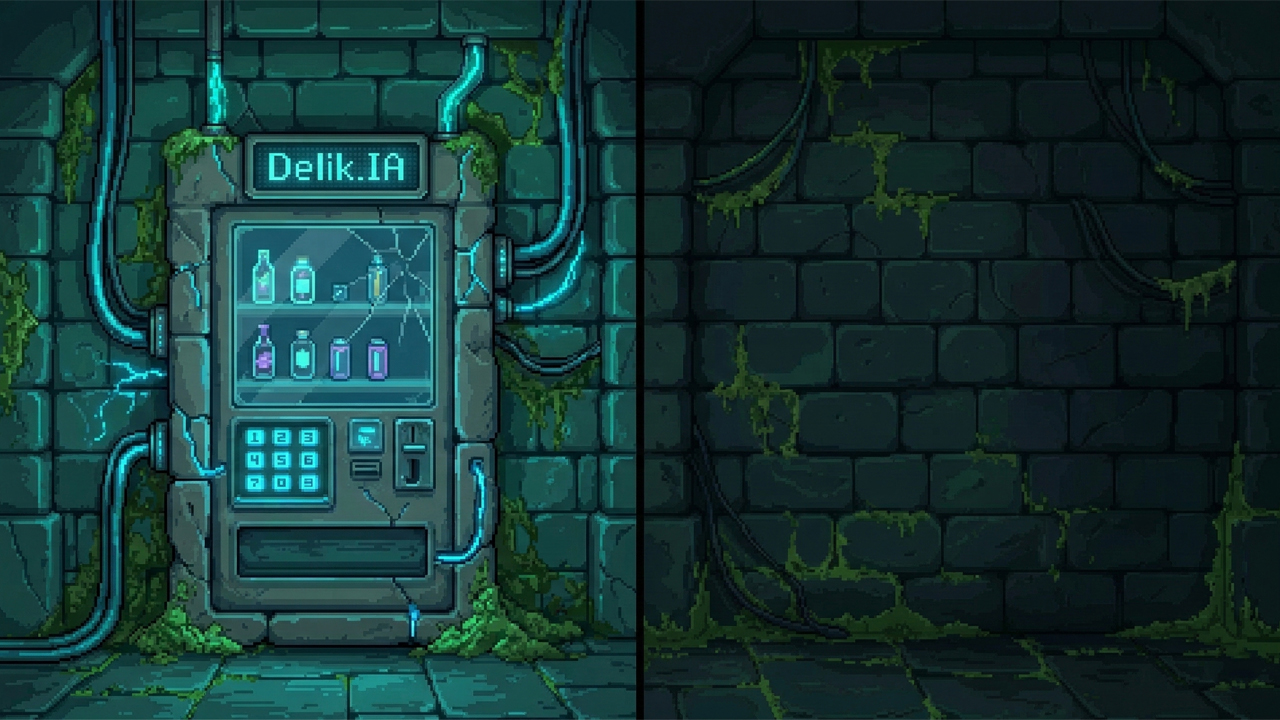
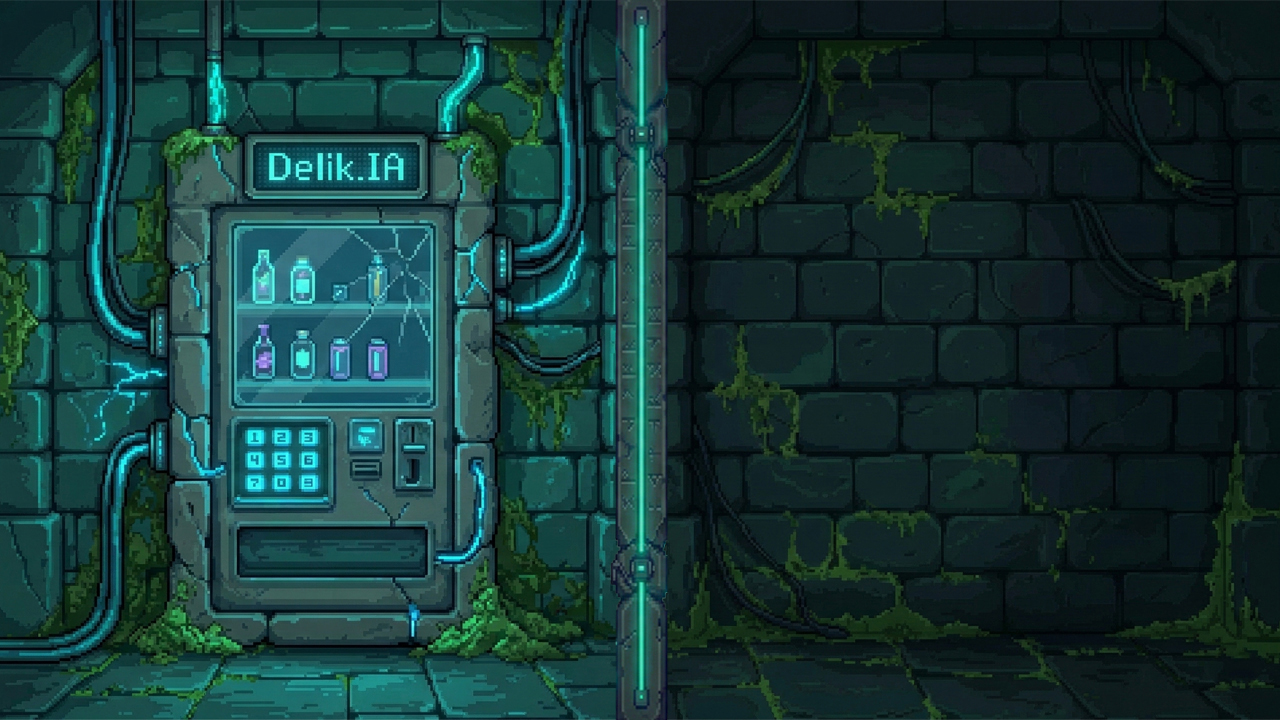
Completo PanelTienda

Changed region(s): [[0.4688, 0.0, 0.5312, 1.0]]

diff --git a/eldap/src/main/java/com/videojuego/vista/PanelTienda.java b/eldap/src/main/java/com/videojuego/vista/PanelTienda.java
@@ -14,10 +14,15 @@ public class PanelTienda extends JPanel {
     private JTextArea areaDescripcion;
     private JButton botonComprar;
     private JButton botonVolver;
-    private JButton botonesItems[] = new JButton[10];
+    private JButton botonesItems[] = new JButton[6];
+    private int itemSeleccionado = -1; // Como el array de items es de 0 a 5, lo inicializo a -1
+    private ImageIcon[] iconosNormales = new ImageIcon[6];
+    private ImageIcon[] iconosSeleccionados = new ImageIcon[6];
 
     public PanelTienda() {
+        this.setLayout(null);
         cargarRecursos();
+        configurarMenuDerecho();
     }
 
     public void cargarRecursos() {
@@ -45,32 +50,145 @@ public class PanelTienda extends JPanel {
 
     public void configurarMenuDerecho() {
         // Panel Contenedor (Mitad derecha)
-        panelMenu = new JPanel();
-        panelMenu.setBounds(640, 0, 640, 720);
-        panelMenu.setBackground(new Color(18, 48, 56, 200));
-        panelMenu.setLayout(null);
-        panelMenu.setBorder(BorderFactory.createMatteBorder(0, 5, 0, 0, Color.decode("#00CBD1")));
+        panelMenu = new JPanel() {
+
+        @Override       //Se fuerza la transparencia del panel (había bugs visuales y con esto se arreglan las transparencias)
+        protected void paintComponent(Graphics g) {
+            g.setColor(new Color(18, 48, 56, 200));
+            g.fillRect(0, 0, getWidth(), getHeight());
+            super.paintComponent(g);
+            }
+        };
+
+        panelMenu.setBounds(635, 0, 645, 720);  //Posición y dimensiones
+        panelMenu.setBackground(new Color(18, 48, 56, 200));    //Color de fondo
+        panelMenu.setLayout(null); 
+        panelMenu.setOpaque(false); // Desactivo la solidez del repintado para que el fondo transparente funcione bien
 
         // Cuadrícula Items
         JPanel panelGridItems = new JPanel();
         panelGridItems.setBounds(50, 50, 540, 250);
-        panelGridItems.setLayout(new GridLayout(2, 5, 10 ,10)); // 2 Filas, 5 columnas, 10 px de gap
+        panelGridItems.setLayout(new GridLayout(2, 3, 10 ,10)); // 2 Filas, 3 columnas, 10 px de gap
         panelGridItems.setOpaque(false);
 
-        String[] rutasImagenes = {
-            "/assets/imagenes/vaper.png",        // Item 0
-            "/assets/imagenes/mantequilla.png",  // Item 1
-            "/assets/imagenes/gabardina.png",    // Item 2
-            "/assets/imagenes/chatto.png",       // Item 3
-            "/assets/imagenes/gafas.png",        // Item 4
-            "/assets/imagenes/guanton.png"       // Item 5
+        String nombresObjetos [] = {
+            "vaper.png",        // Item 0
+            "mantequilla.png",  // Item 1
+            "gabardina.png",    // Item 2
+            "chato.png",       // Item 3
+            "examen.png",       // Item 4
+            "virus.png"       // Item 5
         };
+        
 
-        for (int i = 0; i < 10; i++) {
-            final int indiceItem = i; // Se necesita para el Accion Listener
+        for (int i = 0; i < nombresObjetos.length; i++) {
+            final int indiceItem = i;
+
+            String rutaIconoNormal = "/assets/imagenes/Objetos/Normal/" + nombresObjetos[i];    //Consigo las rutas para los iconos concatenando
+            String rutaIconoSeleccionado = "/assets/imagenes/Objetos/Seleccionado/" + nombresObjetos[i];
+
+            iconosNormales[i] = cargarIconoEscalado(rutaIconoNormal, 120, 120);          //Obtengo iconos escalados
+            iconosSeleccionados[i] = cargarIconoEscalado(rutaIconoSeleccionado, 120, 120);
+
+            botonesItems[i] = new JButton(iconosNormales[i]);       //Creo botones sus botones y les asigno sus iconos normales por defecto
+            botonesItems[i].setContentAreaFilled(false);
+            botonesItems[i].setBorderPainted(false);
+            botonesItems[i].setFocusPainted(false);
+            botonesItems[i].setCursor(new Cursor(Cursor.HAND_CURSOR));
+            botonesItems[i].addActionListener(e -> seleccionarItem(indiceItem));
+
+            panelGridItems.add(botonesItems[i]);
+        }
+        
+        panelMenu.add(panelGridItems);  // Añado el grid de items al panel.
+        
+        //Area Texto
+        JPanel panelContenedorTexto = new JPanel();
+        panelContenedorTexto.setBounds(50, 350, 540, 150);
+        panelContenedorTexto.setLayout(new BorderLayout()); // Para que el texto ocupe todo el interior
+        panelContenedorTexto.setBorder(BorderFactory.createLineBorder(Color.decode("#00CBD1"), 2)); // Borde panel texto
+
+        areaDescripcion = new JTextArea("Bienvenido a Delik.IA. Seleccione un producto.");
+        areaDescripcion.setFont(new Font("Monospaced", Font.BOLD, 18));
+        areaDescripcion.setBackground(Color.decode("#123038"));
+        areaDescripcion.setForeground(Color.WHITE);
+        areaDescripcion.setEditable(false);
+        areaDescripcion.setLineWrap(true);
+        areaDescripcion.setBorder(BorderFactory.createEmptyBorder(10, 10, 10, 10)); // Le damos un "padding" de 10px para que las letras no choquen con el borde
+
+        panelContenedorTexto.add(areaDescripcion, BorderLayout.CENTER);
+        panelMenu.add(panelContenedorTexto);
+        
+        //Boton Comprar
+        botonComprar = Boton.crearBotonImagen("/assets/imagenes/botonComprar.png", 200, 80);
+        botonComprar.setBounds(50, 550, 200, 80);
+        botonComprar.addActionListener(e -> accionComprar());
+        panelMenu.add(botonComprar);
+        
+        //Boton Volver al mapa
+        botonVolver = Boton.crearBotonImagen("/assets/imagenes/botonVolver.png", 200, 80);
+        botonVolver.setBounds(390, 550, 200, 80);
+        botonVolver.addActionListener(e -> accionVolver());
+        panelMenu.add(botonVolver);
+        
+        this.add(panelMenu);    // Añado el menú derecho completo al panel general
+    }
+
+    private ImageIcon cargarIconoEscalado(String ruta, int ancho, int alto) {       //Metodo para escalar los iconos
+        try {
+            URL url = getClass().getResource(ruta); //Obtengo su ruta
+            if (url != null) {
+                Image imagen = new ImageIcon(url).getImage();   //Obtengo su imagen
+                Image imagenEscalada = imagen.getScaledInstance(ancho, alto, Image.SCALE_SMOOTH);       //Lo escalo
+                return new ImageIcon(imagenEscalada);
+            } else {
+                System.err.println("No se encontró la imagen: " + ruta);
+                return null;
+            }
+        } catch (Exception e) {
+            System.err.println("Error al cargar y escalar imagen: " + ruta);
+            return null;
         }
     }
+        
+    // --- Acciones de los Botones ---
+    private void seleccionarItem(int indice) {
+        for (int i = 0; i < 6; i++) {
+            if (botonesItems[i] != null) {
+                botonesItems[i].setIcon(iconosNormales[i]);
+            }
+        }
+
+        botonesItems[indice].setIcon(iconosSeleccionados[indice]);  // Cambio su imagen
+       
+        itemSeleccionado=indice;
+        //Texto temporal hasta que tengamos la clase Tienda
+        areaDescripcion.setText("Has seleccionado el Item " + (indice + 1) + ". Descripción del objeto. Precio: X");
+    }
     
+    private void accionComprar() {
+        if (itemSeleccionado == -1) {
+            areaDescripcion.setText("¡Primero debes seleccionar un objeto!");
+            return;     //Corto aqui para que no pueda comprar un objeto "fantasma"
+        }
+        //Texto temporal hasta que tengamos la clase Tienda
+        areaDescripcion.setText("¡Has comprado el Item " + (itemSeleccionado + 1) + "!");
+    }
+
+    private void accionVolver() {
+        if (itemSeleccionado != -1) {
+            botonesItems[itemSeleccionado].setIcon(iconosNormales[itemSeleccionado]);       //Reinicio los iconos a normales
+        }
+
+        itemSeleccionado = -1;      //Reinicio el seleccionador de objetos
+        areaDescripcion.setText("Bienvenido a Delik.IA. Seleccione un producto.");  //Reinicio el texto de entrada a la máquina
+
+        VentanaPrincipal ventana = (VentanaPrincipal) SwingUtilities.getWindowAncestor(this);
+        if (ventana != null) {
+            ventana.volverAMapaDesdeTienda();   //Cambio de panel para volver al mapa.
+        }
+    }
+
     @Override
     protected void paintComponent(Graphics g) {
         super.paintComponent(g);
@@ -79,5 +197,4 @@ public class PanelTienda extends JPanel {
             g.drawImage(imagenFondo.getImage(), 0, 0, getWidth(), getHeight(), this);
         }
     }
-
 }

diff --git a/eldap/src/main/java/com/videojuego/vista/VentanaPrincipal.java b/eldap/src/main/java/com/videojuego/vista/VentanaPrincipal.java
@@ -89,4 +89,9 @@ public class VentanaPrincipal extends JFrame {
         delikia.requestFocus();
     }
 
+    public void volverAMapaDesdeTienda() {  //Método "especial" para volver al mapa y que la musica siga fluyendo sin que se corte.
+        gestorPantallas.show(panelContenedor, "Pantalla Juego");
+        mapa.requestFocus();
+    }
+
 }
